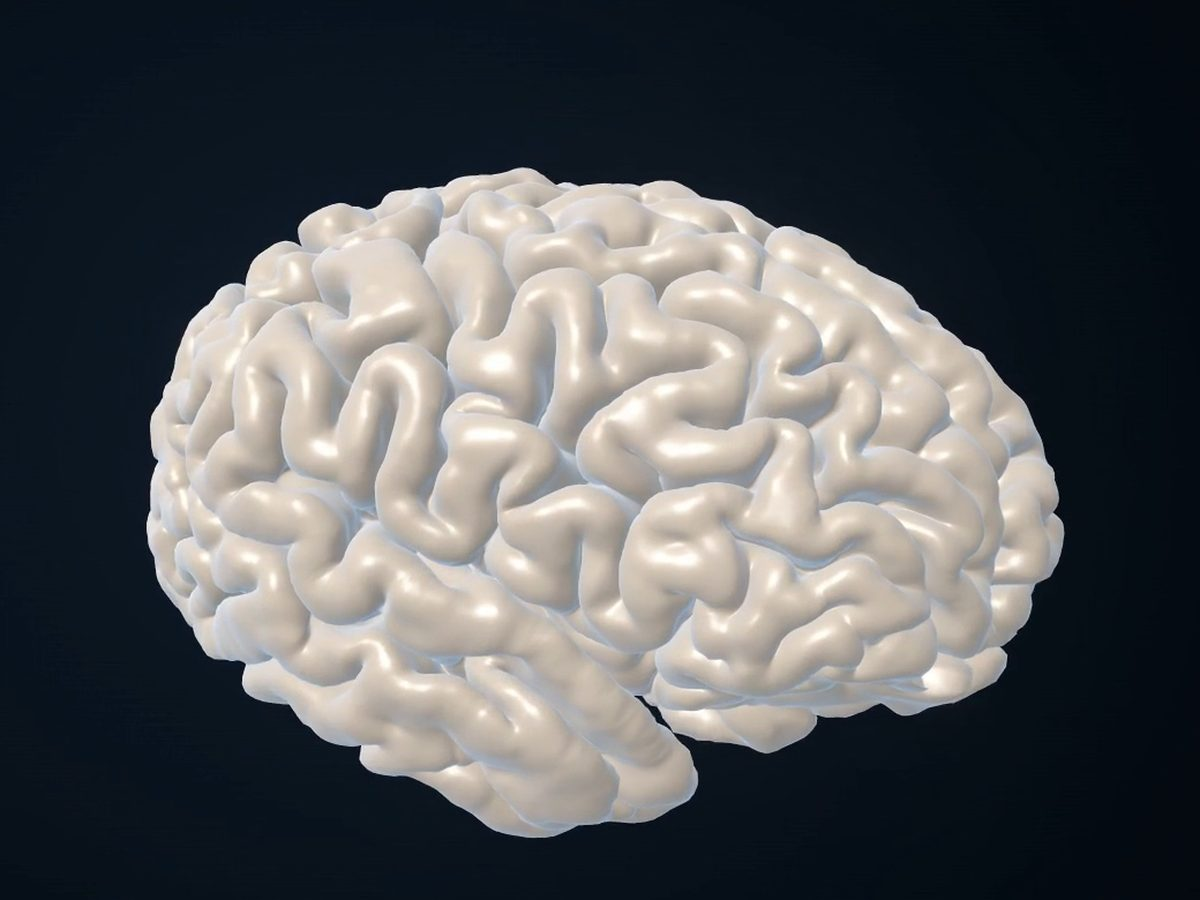
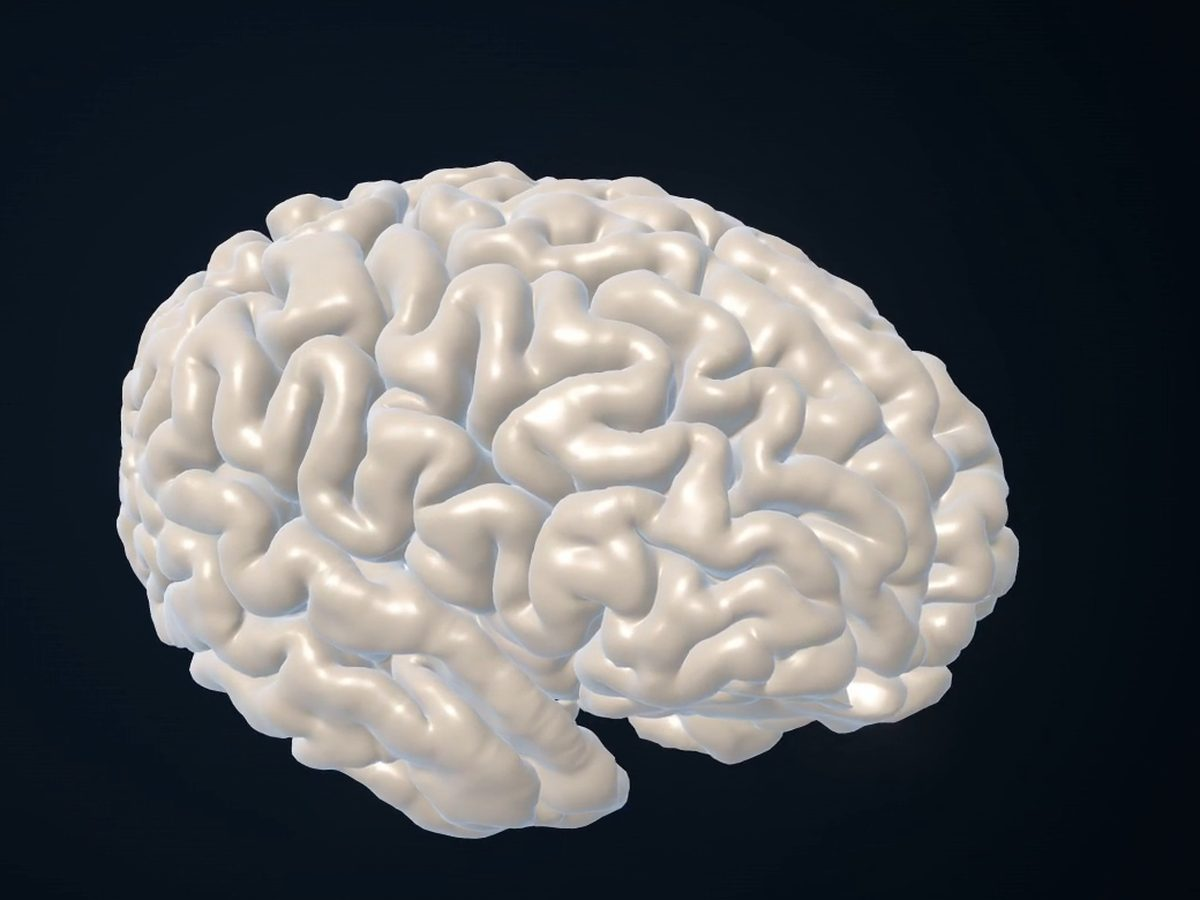
Close N12, N15 and Opus N5: surfaces image at 35.4 s, tool names, DDS Mono
- N12: out-surfaces.jpg comes from 35.4 s (the full pial mesh; 34.8 s
  showed the morph at about 0.94), same box, Pillow 13.0.0 settings.
- N15: SPEC section 2 names the font sources and tools (fontTools 4.67.0
  pyftsubset, brotli 1.2.0); section 3 and the README crop section name
  Pillow 13.0.0.
- Opus N5: the two IBM Plex Mono subsets carry the family name "DDS Mono"
  (name IDs 1, 3, 4 and 6; other tables unchanged), as SIL OFL 1.1 section
  3 asks of a modified version; site.css loads "DDS Mono"; the footer says
  so.
- Tests: images and fonts_licensed pin the image and font files by
  SHA-256; fonts_licensed fails an @font-face family with "Plex"; rows pin
  the SPEC, README and footer records. Each fails on the ec3b122 file.
- Opus N4 (slicer.jpg path fields): no change (user choice), reason in
  README.

Changed region(s): [[0.0925, 0.1556, 0.8942, 0.9333]]

diff --git a/docs/index.html b/docs/index.html
@@ -435,7 +435,7 @@ python3 scripts/stage_slicer_extension.py \
         <h2 class="foot-title">About the film</h2>
         <p>Data: EDDEN, OpenNeuro <a href="https://openneuro.org/datasets/ds004666" target="_blank" rel="noopener">ds004666</a> (CC0), Manzano-Patron et al., Imaging Neuroscience <a href="https://doi.org/10.1162/imag_a_00060" target="_blank" rel="noopener">2024</a>.</p>
         <p>Run: SlicerDDSurfer a48fc95, started from the command line, with 3D Slicer 5.12.4, SlicerDMRI and PyTorch on macOS (x86_64 build under Rosetta, CPU only). This run is outside the Linux validation and needed local run-time workarounds that are not in the repository.</p>
-        <p>Made with <a href="https://github.com/lemomo-ai/lemo-opuscar" target="_blank" rel="noopener">lemo-opuscar</a> (MIT) and three.js (MIT). Voice: Kokoro TTS (Apache-2.0). Fonts: Inter, Inter Tight, IBM Plex Mono (SIL OFL 1.1). Music and sound: original, synthesized in code.</p>
+        <p>Made with <a href="https://github.com/lemomo-ai/lemo-opuscar" target="_blank" rel="noopener">lemo-opuscar</a> (MIT) and three.js (MIT). Voice: Kokoro TTS (Apache-2.0). Fonts: Inter, Inter Tight, IBM Plex Mono (SIL OFL 1.1; the site’s IBM Plex Mono subset is renamed “DDS Mono”, as the licence asks of modified fonts). Music and sound: original, synthesized in code.</p>
       </div>
     </div>
     <div class="foot-bottom">

diff --git a/docs/assets/css/site.css b/docs/assets/css/site.css
@@ -15,14 +15,14 @@
   font-display: swap;
 }
 @font-face {
-  font-family: "IBM Plex Mono";
+  font-family: "DDS Mono";
   src: url("../fonts/IBMPlexMono-Regular.woff2") format("woff2");
   font-weight: 400;
   font-style: normal;
   font-display: swap;
 }
 @font-face {
-  font-family: "IBM Plex Mono";
+  font-family: "DDS Mono";
   src: url("../fonts/IBMPlexMono-Medium.woff2") format("woff2");
   font-weight: 500;
   font-style: normal;
@@ -50,7 +50,7 @@
   --tri: linear-gradient(90deg, var(--red), var(--green), var(--blue));
   --f-head: "Inter Tight", "Inter", system-ui, -apple-system, "Segoe UI", Roboto, sans-serif;
   --f-body: "Inter", system-ui, -apple-system, "Segoe UI", Roboto, sans-serif;
-  --f-mono: "IBM Plex Mono", ui-monospace, "SF Mono", Menlo, Consolas, monospace;
+  --f-mono: "DDS Mono", ui-monospace, "SF Mono", Menlo, Consolas, monospace;
   color-scheme: dark;
 }
 

diff --git a/tests/check_site.py b/tests/check_site.py
@@ -551,6 +551,44 @@ def image_size(path, is_bytes=False):
     raise ValueError("not a PNG or JPEG")
 
 
+# README N12 and N5: the image and font files are the recorded ones, so a re-made or swapped file is a deliberate
+# change (update the hash here and the record in README).
+IMAGE_SHA256 = {
[12 lines of base64/hex data omitted]
+}
+FONT_SHA256 = {
[4 lines of base64/hex data omitted]
+}
+
+
+def pinned_files(d, names, table):
+    problems = []
+    for n in sorted(set(names) | set(table)):
+        p = os.path.join(d, n)
+        if n not in table:
+            problems.append("%s is not recorded" % os.path.relpath(p, ROOT))
+        elif not os.path.isfile(p):
+            problems.append("%s is recorded but missing" % os.path.relpath(p, ROOT))
+        elif sha256(p) != table[n]:
+            problems.append("%s has SHA-256 %s, not the recorded %s" % (os.path.relpath(p, ROOT), sha256(p)[:12],
+                                                                        table[n][:12]))
+    return problems
+
+
 @check("images")
 def images(pages):
     problems = []
@@ -581,6 +619,8 @@ def images(pages):
                 iw, ih = image_size(target)
             if abs((iw / ih) / (w / h) - 1) > 0.02:
                 problems.append("%s:%s %s file %dx%d vs attributes %dx%d" % (rel, line, src, iw, ih, w, h))
+    idir = os.path.join(DOCS, "assets", "img")
+    problems += pinned_files(idir, [n for n in os.listdir(idir) if not n.startswith(".")], IMAGE_SHA256)
     return fail_list(problems) if problems else None
 
 
@@ -659,6 +699,12 @@ def fonts_licensed():
         family = n[:-len(".woff2")].split("-")[0]
         if not os.path.isfile(os.path.join(fdir, "OFL-%s.txt" % family)):
             problems.append("%s has no OFL-%s.txt" % (n, family))
+    problems += pinned_files(fdir, woffs, FONT_SHA256)
+    # README N5: SIL OFL 1.1 bars the Reserved Font Name "Plex" from a modified version (our subset).
+    css = read(os.path.join(DOCS, "assets", "css", "site.css"))
+    for m in re.finditer(r"@font-face\s*\{[^}]*?font-family:\s*([^;]+);", css):
+        if "plex" in m.group(1).lower():
+            problems.append("site.css @font-face family %s keeps the Reserved Font Name Plex" % m.group(1).strip())
     return fail_list(problems) if problems else None
 
 
@@ -879,6 +925,12 @@ WORDING_FIXES = (
      r'(?m)^    try:\n        got = backlog_wording\.fn\(WORDING_SELF_TEST\) or ""\n    except Exception as exc:.*\n'
      r'        got = .*\n(?=    if not all\(w in got)',
      'try: got = backlog_wording.fn(WORDING_SELF_TEST) or "" except Exception as exc:', None),
+    # README N12, N15 and N5: the records of the re-made surfaces image, the tools and the renamed subset.
+    ("N12", "SPEC.md", r"(?m)^\| out-surfaces\.jpg \| [0-9].*$", "| out-surfaces.jpg | 35.4 |", "| 34.8 |"),
+    ("N12", "README.md", r"(?m)^\| out-surfaces\.jpg \|.*$", "| out-surfaces.jpg | 35.4 |", "| 34.8 |"),
+    ("N15", "SPEC.md", r"(?ms)^## 3\. Images.*?(?=^\| File)", "written with Pillow 13.0.0", None),
+    ("N15", "SPEC.md", r"(?ms)^Fonts \(README N15, N5\):.*?(?=\n\n)", "fontTools 4.67.0", None),
+    ("N5", "docs/index.html", r"(?m)^.*Fonts: Inter, Inter Tight, IBM Plex Mono.*$", "renamed “DDS Mono”", None),
     ("r20 6", "SPEC.md", r"(?ms)^17\. `backlog_wording`.*?(?=^(?! )|\Z)",
      "went through fewer or more rows than `WORDING_FIXES` holds", "did not go through every row of `WORDING_FIXES`"),
     ("r20 6", "SPEC.md", r"(?ms)^After code review of 49681a8 .*?(?=\n\n|\Z)",

diff --git a/SPEC.md b/SPEC.md
@@ -44,12 +44,20 @@ docs/media/SlicerDDSurfer_promo_1080p.mp4   copy of P/out/SlicerDDSurfer_promo_1
 docs/media/SlicerDDSurfer.en.srt            copy of P/out/SlicerDDSurfer.en.srt
 ```
 
+Fonts (README N15, N5): `.woff2` subsets of `P/film/fonts/` (Inter-var.ttf with its opsz and wght axes,
+InterTight-var.ttf with its wght axis, IBMPlexMono-Regular.ttf and IBMPlexMono-Medium.ttf), made with fontTools 4.67.0
+(`pyftsubset`, brotli 1.2.0). Each subset maps U+0020–007E, U+00A0–00FF and the punctuation, arrows (U+2190–2193),
+minus (U+2212) and ≈ (U+2248) that the font has. SIL OFL 1.1 §3 bars the Reserved Font Name “Plex” from a modified
+version, so the two IBM Plex Mono subsets carry the family name “DDS Mono” (name IDs 1, 3, 4 and 6; the other tables
+are unchanged) and `site.css` loads them as “DDS Mono”. The file names keep `IBMPlexMono`.
+
 ## 3. Images (all from the delivered film or cover; no new renders)
 
 Frames come from `P/out/SlicerDDSurfer_promo_1080p.mp4` with `ffmpeg -ss <t> -i <film> -frames:v 1`. Crop boxes are
 `x0,y0,x1,y1` in the 1920×1080 frame. A crop taken while a subtitle cue is on screen ends at y ≤ 945 (subtitle text
 starts near y = 950; two-line cues reach y ≈ 1040). Frames at 43.0, 50.2 and 56.8 s show no cue. Check each output by eye; adjust a box by up to 60 px if a brain or label is cut, and record the final
-boxes in `README.md`. JPEG quality 82, progressive, sRGB.
+boxes in `README.md`. JPEG quality 82, progressive, sRGB, written with Pillow 13.0.0 (`Image.save(quality=82,
+progressive=True, optimize=True)`; crops are resized with LANCZOS).
 
 | File | t (s) | Crop box | Output size | Shows |
 |---|---|---|---|---|
@@ -58,7 +66,7 @@ boxes in `README.md`. JPEG quality 82, progressive, sRGB.
 | out-dec.jpg | 22.8 | 815,155,1855,935 | 1200×900 | DEC map on three planes |
 | out-tissue.jpg | 27.0 | 725,150,1765,930 | 1200×900 | DDSeg tissue labels |
 | out-regions.jpg | 30.6 | 700,150,1740,930 | 1200×900 | DDParcel regions |
-| out-surfaces.jpg | 34.8 | 665,155,1705,935 | 1200×900 | DDSurfer pial surface |
+| out-surfaces.jpg | 35.4 | 665,155,1705,935 | 1200×900 | DDSurfer pial surface |
 | out-tracts.jpg | 43.0 | 470,0,1910,1080 | 1200×900 | tractography |
 | out-connectome.jpg | 50.2 | 585,140,1838,1080 | 1200×900 | connectome nodes/edges and matrix |
 | slicer.jpg | 56.8 | full frame | 1920×1080 | real 3D Slicer screenshot from the film (cue 11 ends at 56.5 s; the fade to the end card starts at 56.9 s) |
@@ -340,8 +348,9 @@ Three columns, then a bottom line.
   `https://doi.org/10.1162/imag_a_00060`). “Run: SlicerDDSurfer a48fc95, started from the command line, with 3D Slicer
   5.12.4, SlicerDMRI and PyTorch on macOS (x86_64 build under Rosetta, CPU only). This run is outside the Linux
   validation and needed local run-time workarounds that are not in the repository.” “Made with lemo-opuscar (MIT) and
-  three.js (MIT). Voice: Kokoro TTS (Apache-2.0). Fonts: Inter, Inter Tight, IBM Plex Mono (SIL OFL 1.1). Music and
-  sound: original, synthesized in code.” (link “lemo-opuscar” → `https://github.com/lemomo-ai/lemo-opuscar`)
+  three.js (MIT). Voice: Kokoro TTS (Apache-2.0). Fonts: Inter, Inter Tight, IBM Plex Mono (SIL OFL 1.1; the site’s
+  IBM Plex Mono subset is renamed “DDS Mono”, as the licence asks of modified fonts). Music and sound: original,
+  synthesized in code.” (link “lemo-opuscar” → `https://github.com/lemomo-ai/lemo-opuscar`)
   [F5 MAKING_OF:73-74, 144-145, 168; P/runtime/STATUS.md]
 - Bottom line (small): “Static site: no cookies, no trackers, no third-party requests.” and “Back to top” `#top`.
 
@@ -378,9 +387,10 @@ Prints one `PASS name` / `FAIL name - reason` line per check; `SKIP` only where 
 7. `transcript_matches_srt`: the transcript list equals the 12 cue texts of `docs/media/SlicerDDSurfer.en.srt`, in order.
 8. `sizes`: no file in `docs/` is over 50 MB; `docs/` is under 100 MB in total.
 9. `images`: every `<img>` has non-empty `alt`, integer `width` and `height`; each image file's pixel size matches its
-   attributes' aspect ratio within 2% (PNG/JPEG header parse, stdlib only).
-    In checks 10 and 11, “visible text” means the text content of both pages plus every `alt`, `aria-label`,
-    `title` attribute, `<title>`, `<meta name="description">`/`og:*` content, and the string literals in `site.js`.
+   attributes' aspect ratio within 2% (PNG/JPEG header parse, stdlib only). In checks 10 and 11, “visible text” means
+   the text content of both pages plus every `alt`, `aria-label`, `title` attribute, `<title>`, `<meta
+   name="description">`/`og:*` content, and the string literals in `site.js`. The files in `docs/assets/img/` are
+   exactly those in the script's `IMAGE_SHA256` (name and SHA-256).
 10. `claims_required`: the visible text contains each of: “at analysis time”, “Private pre-release”, “not a clinical
     assessment”, “not certified” (case-insensitive), “24,000 of 130,780”, “not installed silently”, “in preparation”, “display subset”, “not acceptance by Slicer”,
     “not run for the film”, “No expert has reviewed”, “SNR is higher than a typical single scan”, “workarounds that are
@@ -394,7 +404,8 @@ Prints one `PASS name` / `FAIL name - reason` line per check; `SKIP` only where 
     once, inside “Install SlicerDMRI and PyTorch from Slicer’s Extension Manager.”
 12. `no_local_paths`: no file in `docs/` contains `/Volumes/`, `/Users/`, `/private/tmp`, `file://`.
 13. `links_safe`: every `target="_blank"` link has `rel` containing `noopener`.
-14. `fonts_licensed`: every `.woff2` in `docs/assets/fonts/` has its OFL text next to it.
+14. `fonts_licensed`: every `.woff2` in `docs/assets/fonts/` has its OFL text next to it. The `.woff2` files are
+    exactly those in `FONT_SHA256`, and no `@font-face` in `site.css` names a family with “Plex” (README N5).
 15. `menu_focus_wording`: the `site.js` focusout comment, the README “Opus N3” note and this spec (§4) each say “a
     focus change to nothing does not close it”, and none keeps the old wording that hands that case to the click
     handlers.
@@ -539,3 +550,9 @@ After code review (2026-10-22, README backlog r20 2, r20 6 and r21 1): in item 1
 self-test in `main()` at the indent of the function body; item 17 and the 49681a8 paragraph say “went through fewer or
 more rows than `WORDING_FIXES` holds”, which is what the count test checks; item 17 names r20 1. README records r20 3–5
 and r21 2 as limits of the row-count test (user choice, 2026-10-22).
+
+After code review (2026-10-22, README backlog N12, N15 and Opus N5): `out-surfaces.jpg` comes from 35.4 s (the full
+pial mesh; 34.8 s showed the morph at about 0.94); §2 names the font sources and tools and §3 the JPEG tool; the IBM
+Plex Mono subsets are renamed “DDS Mono” and the footer says so. Item 9 `images` and item 14 `fonts_licensed` now
+also pin the image and font files by SHA-256, and item 14 fails an `@font-face` family with “Plex”. README records
+Opus N4 (`slicer.jpg` path fields) as no change (user choice).

diff --git a/README.md b/README.md
@@ -63,8 +63,12 @@ CSS and an inline icon, and it links home with the absolute Pages address.
 Items from the spec review (SPEC §9) that were not taken. They do not block the site.
 
 - N2 (P2): SPEC v1 §3 said every crop must exclude the subtitle band, but the out-tracts and out-connectome boxes reach y = 1080. No cue is on screen at 43.0 s or 50.2 s, so the images are fine. SPEC v2 §3 rewords the rule.
-- N12 (P3): at 34.8 s the white→pial morph is at about 0.94. At 35.4 s the full pial mesh shows, before the glass fade starts at 35.6 s.
-- N15 (P3): SPEC §2/§3 do not name the font source or the JPEG tool (ffmpeg's mjpeg encoder alone cannot make progressive JPEG at quality 82).
+- N12 (P3). **Fixed 2026-10-22** (user request): at 34.8 s the white→pial morph was at about 0.94; `out-surfaces.jpg`
+  now comes from 35.4 s (the full pial mesh, before the glass fade at 35.6 s), same box, checked by eye (no subtitle,
+  no cut-off brain). `images` pins the file by SHA-256; with the old file it fails.
+- N15 (P3). **Fixed 2026-10-22** (user request): SPEC §2 names the font sources (`P/film/fonts/`) and tools
+  (fontTools 4.67.0 `pyftsubset`, brotli 1.2.0); §3 and the crop section below name Pillow 13.0.0 for the JPEGs. Rows
+  pin both; the old SPEC fails them.
 - N16 (P3): an inline SVG with `xmlns="http://www.w3.org/2000/svg"` would fail the external-URL check. `check_site.py` now exempts namespace URIs.
 - N18 (P3): for DDSeg the QC that passed is the world-space QC (DDSeg-vs-DDParcel WM Dice 0.848). The Outputs note says “Automatic QC passed for the … DDSeg … stages”; the reviewer found that acceptable.
 - N19 (P3): CITATION.cff writes O'Donnell with an ASCII apostrophe in the DDSurfer entry; the page uses ’ (allowed by the SPEC typography rule).
@@ -98,9 +102,17 @@ Not fixed (non-blocking):
   nav and the Menu button (a focus change to nothing does not close it). `browser_check.mjs` tabs out
   of the open menu at 390 px and needs it closed (failed on bd002dd: still open), and checks that Shift+Tab back to the
   Menu button keeps it open.
-- Opus N4 (P3): `slicer.jpg` shows path fragments from the film frame ("fer-promo/runtime/subjects/sub-01").
-- Opus N5 (P3): the IBM Plex Mono subset keeps the name "IBM Plex Mono", while the OFL text names the Reserved Font
-  Name "Plex". Option: use IBM's published Latin-1 subset files.
+- Opus N4 (P3). **No change** (user choice, 2026-10-22): `slicer.jpg` shows two path fields (“…fer-promo/runtime/
+  subjects/sub-01”). Every frame of the film's Slicer segment (52–56.8 s) shows them, and the brain spans about
+  y = 95–500, so no single crop removes the fields and keeps both the brain and the module panel. The embedded film
+  shows the same frame, so an edit to the still would not remove the paths from the page. They are the film's local
+  run folder names, not private data.
+- Opus N5 (P3). **Fixed 2026-10-22** (user request): the two IBM Plex Mono subsets now carry the family name
+  “DDS Mono” (name IDs 1, 3, 4 and 6; fontTools shows every other table unchanged and 291 glyphs in each), as SIL OFL
+  1.1 §3 asks of a modified version. `site.css` loads them as “DDS Mono”, and the footer says so. `fonts_licensed`
+  pins the `.woff2` files by SHA-256 and fails an `@font-face` family with “Plex”; with the old fonts or the old
+  `site.css` it fails. The file names keep `IBMPlexMono`; `404.html` names “IBM Plex Mono” only as a local font and
+  loads no file.
 - Opus N6 (P3): `check_site.py` accepts any §6 URL in `<link rel="canonical">` and does not limit where the Pages URLs
   and the `.git` URL may appear.
 - Opus N7 (P3): on the 404 page, `browser_check.mjs` ignores console errors that contain "404", so a missing asset
@@ -501,7 +513,7 @@ Not fixed (non-blocking, from the Opus re-review; Codex found nothing):
 ## Image crop boxes as finally used
 
 Frames come from the delivered film with `ffmpeg -ss <t> -i <film> -frames:v 1`. Boxes are `x0,y0,x1,y1` in the
-1920×1080 frame. JPEG quality 82, progressive, sRGB. Every output was checked by eye: no subtitle text, no cut-off
+1920×1080 frame. JPEG quality 82, progressive, sRGB, written with Pillow 13.0.0. Every output was checked by eye: no subtitle text, no cut-off
 brain, no cut-off label.
 
 | File | t (s) | Crop box | Output size | Change from SPEC v2 §3 |
@@ -511,7 +523,7 @@ brain, no cut-off label.
 | out-dec.jpg | 22.8 | 815,155,1855,935 | 1200×900 | none |
 | out-tissue.jpg | 27.0 | 725,150,1765,930 | 1200×900 | none |
 | out-regions.jpg | 30.6 | 700,150,1740,930 | 1200×900 | none |
-| out-surfaces.jpg | 34.8 | 665,155,1705,935 | 1200×900 | none |
+| out-surfaces.jpg | 35.4 | 665,155,1705,935 | 1200×900 | 35.4 s, not 34.8 s (README N12): the full pial mesh |
 | out-tracts.jpg | 43.0 | 470,0,1910,1080 | 1200×900 | none |
 | out-connectome.jpg | 50.2 | 585,140,1838,1080 | 1200×900 | none |
 | slicer.jpg | 56.8 | full frame | 1920×1080 | none (SPEC v2 uses 56.8 s: cue 11 ends at 56.5 s, the fade starts at 56.9 s) |
